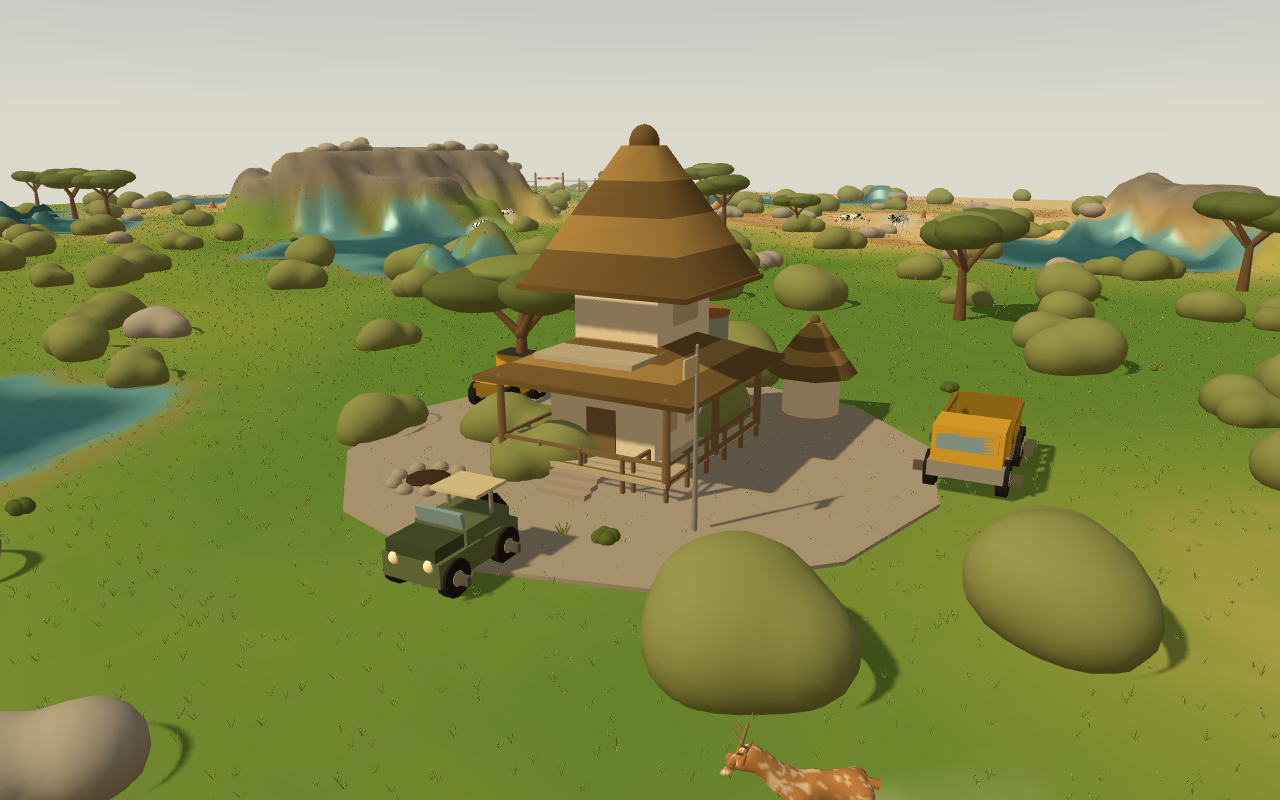
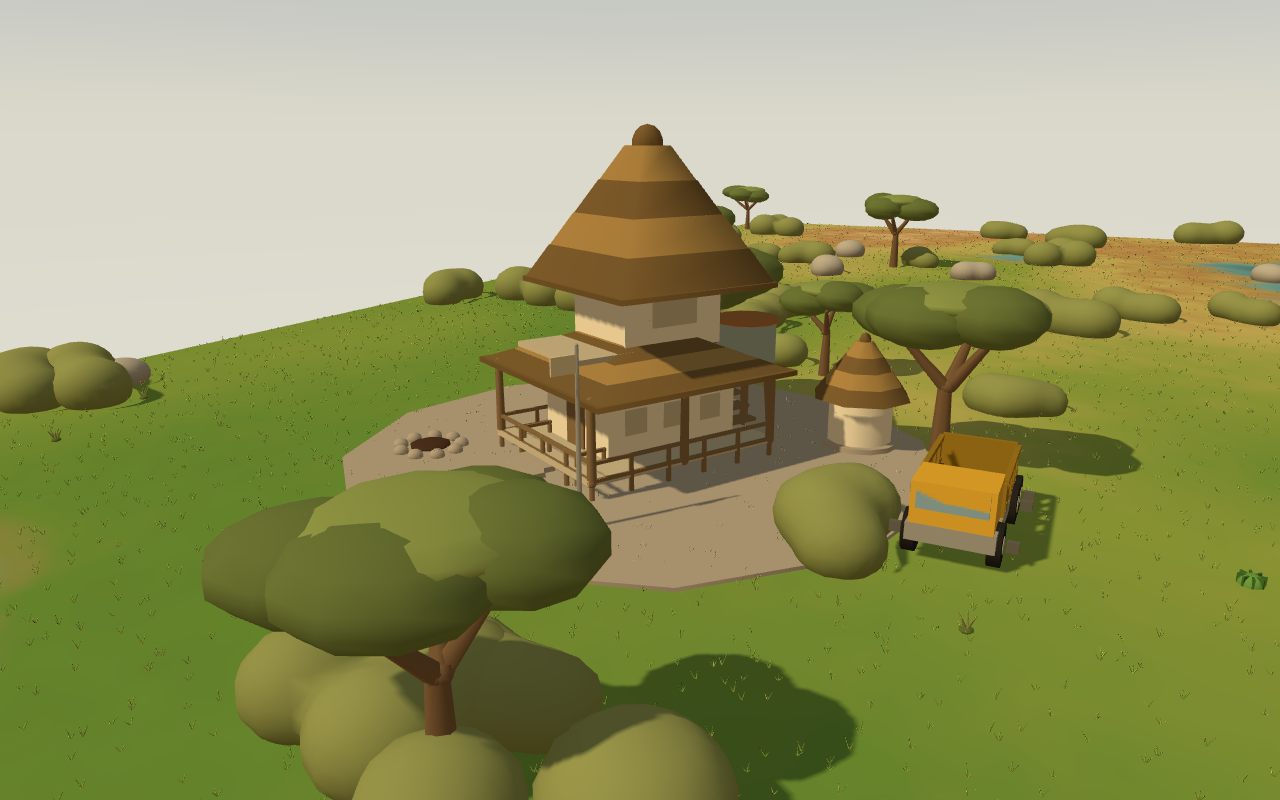
Give the lion a mane and the crocodile a back
The lion was a smooth orange ball. Its ruff was blended into the skull on
the default fillet, which only ever made the head bigger, so it now keeps
its own edge and carries a ring of overlapping lumps in the surface with
short tufts over the top. An earlier attempt used long radiating strands and
produced a sea urchin: what identifies a lion at distance is a broken
outline with volume behind it, not spikes.

The crocodile was a green torpedo. It has three rows of keeled scutes down
the back and a ridge along the tail now, placed by casting a ray onto the
skin rather than by arithmetic from the rig — measured positions end up
buried, because the blend inflates the surface above the primitives it was
measured from, which is how the first pass gave it an armoured tail and a
bare back.

The smoke test also stops the game's ticker before asserting anything. The
page's own frame loop was racing it: animals moved between the step that set
a pose and the line that read it, and a run that reached its tenure mid-test
made the shell ignore clicks, failing the input checks for a reason that had
nothing to do with input. Five consecutive clean runs, where it was failing
about one in three.

diff --git a/src/r3d/Creature3D.js b/src/r3d/Creature3D.js
@@ -245,9 +245,38 @@
             neck.thickBase * 0.5 * PX, neck.thickTip * 0.5 * PX);
 
         if (spec.ruff) {
-            field.ellipsoid(iHead,
-                headPos.x - spec.ruff.radius * 0.28 * PX, headPos.y, 0,
-                spec.ruff.radius * 0.85 * PX, spec.ruff.radius * PX, spec.ruff.radius * PX);
+            const ruff = spec.ruff;
+            const rcx = headPos.x - ruff.radius * 0.30 * PX;
+            // A tight blend, so the ruff sits against the head instead of merging with
+            // it. On the default fillet a lion came out as one smooth orange ball.
+            field.ellipsoid(iHead, rcx, headPos.y, 0,
+                ruff.radius * 0.80 * PX, ruff.radius * PX, ruff.radius * PX,
+                bulk * 0.06);
+
+            /*
+             * A ring of lumps around the collar.
+             *
+             * The first attempt at a mane was long strands radiating from the ruff,
+             * which read as a sea urchin rather than as hair. What a mane actually does
+             * to a silhouette is thicken and roughen it, so it is built as overlapping
+             * masses in the surface itself — volume first, with a few short tufts over
+             * the top to break the edge.
+             */
+            if (ruff.lumps) {
+                const inner = ruff.radius * ruff.inset * PX;
+                for (let i = 0; i < ruff.lumps; i++) {
+                    const a = (i / ruff.lumps) * TAU;
+                    const wobble = 1 + Math.sin(i * 2.3) * 0.22;
+                    field.ellipsoid(iHead,
+                        rcx - ruff.lump * 0.18 * PX * (i % 2),
+                        headPos.y + Math.sin(a) * inner,
+                        Math.cos(a) * inner,
+                        ruff.lump * 0.42 * PX * wobble,
+                        ruff.lump * 0.5 * PX * wobble,
+                        ruff.lump * 0.5 * PX * wobble,
+                        bulk * 0.045);
+                }
+            }
         }
 
         // Head and muzzle offsets, relative to the head bone — the appendages below
@@ -335,9 +364,11 @@
             if (ex * ex + ey * ey + ez * ez < 1.2) return _col.copy(muzzleCol);
 
             if (spec.ruff) {
-                const dr = Math.hypot(x - (headPos.x - spec.ruff.radius * 0.28 * PX),
+                // Wide enough to take in the lumps, or the mane is a dark collar with a
+                // pale fringe of its own edge.
+                const dr = Math.hypot(x - (headPos.x - spec.ruff.radius * 0.30 * PX),
                     y - headPos.y, z);
-                if (dr < spec.ruff.radius * 0.95 * PX) return _col.copy(maneCol);
+                if (dr < spec.ruff.radius * 1.16 * PX) return _col.copy(maneCol);
             }
 
             // A mane rides the crest of the neck: close to the neck line, and above it.
@@ -490,6 +521,33 @@
             b.pop();
         }
 
+        /* --- The mane ---------------------------------------------------------- *
+         *
+         * A collar of tapered strands around the ruff, raked back. Drawn rather than
+         * blended, because what identifies a lion at fifty metres is the broken
+         * outline, and a blended mass has no outline to break.
+         */
+        if (spec.ruff && spec.ruff.strands) {
+            const ruff = spec.ruff;
+            const cx = headPos.x - ruff.radius * 0.30 * PX;
+            const cy = headPos.y;
+            b.bone(iHead).color(maneCol);
+            const outer = ruff.radius * (ruff.inset || 0.8) * PX + ruff.lump * 0.3 * PX;
+            for (let i = 0; i < ruff.strands; i++) {
+                const a = (i / ruff.strands) * TAU + (i % 2) * 0.18;
+                const uy = Math.sin(a);
+                const uz = Math.cos(a);
+                const len = ruff.length * PX * (0.75 + (i % 3) * 0.18);
+                // Tufts sweep back along the body as well as outward, which is what
+                // stops a mane reading as a sunflower.
+                b.limb(
+                    cx, cy + uy * outer * 0.9, uz * outer * 0.9,
+                    cx - ruff.rake * len, cy + uy * (outer + len), uz * (outer + len),
+                    ruff.thick * 0.5 * PX, ruff.thick * 0.18 * PX,
+                    { radial: 4, noCaps: true });
+            }
+        }
+
         /* --- Ears and eyes ---------------------------------------------------- */
         if (spec.ear) {
             const ear = spec.ear;
@@ -559,6 +617,64 @@
                 .pop();
         }
         b.pop();
+
+        /* --- Scutes -------------------------------------------------------------- *
+         *
+         * Keeled plates along the spine and the tail. They belong to whichever bone
+         * carries the part they sit on, so the tail's row swings with the tail.
+         */
+        if (spec.scutes) {
+            const sc = spec.scutes;
+            const scuteCol = R3D.col(sc.color);
+
+            b.bone(iBody).color(scuteCol);
+            for (let row = 0; row < sc.rows; row++) {
+                // The middle row runs the length of the back; the flanking rows are
+                // shorter and set lower, as they are on the animal.
+                const lateral = (row - (sc.rows - 1) / 2) * sc.spread;
+                const flank = Math.abs(lateral) > 0.01;
+                const inset = flank ? 0.72 : 1;
+                const size = sc.size * (flank ? 0.72 : 1);
+                const from = body.length * 0.42 * inset;
+                const to = -body.length * 0.48 * inset;
+                const steps = Math.max(2, Math.round((from - to) / sc.spacing));
+                for (let i = 0; i <= steps; i++) {
+                    const t = i / steps;
+                    const x = from + (to - from) * t;
+                    /*
+                     * Sit each scute on the skin, not on the ellipsoid it was measured
+                     * from. The blend inflates the back above the barrel it started as,
+                     * so a row placed by arithmetic ends up inside the animal — which is
+                     * why the first pass gave the crocodile an armoured tail and a bare
+                     * back.
+                     */
+                    field.project(x * PX, body.z * PX, -lateral * PX,
+                        flank ? Math.sign(-lateral) * 0.55 : 0, 1, 0, hit,
+                        body.height * 3 * PX);
+                    b.push()
+                        .translate(hit[0], hit[1] - size * 0.22 * PX, hit[2])
+                        .rotate(0, 0, -0.18)
+                        .cone(size * 0.5 * PX, size * PX, LOW)
+                        .pop();
+                }
+            }
+
+            const tsc = sc.tail || sc;
+            const tailLen = Math.hypot(tEndX, tEndY);
+            const tailSteps = Math.max(2, Math.round(tailLen / (tsc.spacing * PX)));
+            b.bone(rig.index.tail);
+            b.push().translate(tailPos.x, tailPos.y, tailPos.z);
+            for (let i = 0; i <= tailSteps; i++) {
+                const t = i / tailSteps;
+                const taper = 1 - t * 0.72;
+                b.push()
+                    .translate(tEndX * t, tEndY * t + tail.thick * 0.34 * PX * taper, 0)
+                    .rotate(0, 0, -0.18)
+                    .cone(tsc.size * 0.45 * PX * taper, tsc.size * PX * taper, LOW)
+                    .pop();
+            }
+            b.pop();
+        }
 
         /* --- Legs ---------------------------------------------------------------- */
         for (let i = 0; i < 4; i++) {

diff --git a/src/config/IsoSpecies.js b/src/config/IsoSpecies.js
@@ -125,7 +125,7 @@
             id: 'lion', label: 'Lion', diet: 'carnivore',
             palette: {
                 base: '#c99257', limb: '#bf884e', hoof: '#7d5730',
-                muzzle: '#e4cda2', mane: '#7d4a20', eye: '#241408'
+                muzzle: '#e4cda2', mane: '#6b3a15', eye: '#241408'
             },
             body: { x: 0, z: 20, length: 25, width: 9, height: 11 },
             neck: { x: 17, z: 24, length: 8, angle: 0.34, thickBase: 13, thickTip: 11 },
@@ -134,8 +134,21 @@
                 length: 8.5, width: 6.5, height: 6.5,
                 muzzle: { offset: 5.5, length: 4.4, width: 3.8, height: 3.4 }
             },
-            /** The ruff is what makes a lion read as a lion at any distance. */
-            ruff: { radius: 11 },
+            /**
+             * The ruff is what makes a lion read as a lion at any distance.
+             *
+             * `strands` is what makes it read as a *mane* rather than as a larger head.
+             * Blended into the skull it only ever produced a bigger ball; the ragged
+             * outline is the whole signal, so it is drawn as a collar of tapered
+             * strands around a ruff that keeps its own edge.
+             */
+            ruff: {
+                radius: 10,
+                /** Overlapping lumps around the collar, which give it a shaggy edge. */
+                lumps: 13, lump: 4.2, inset: 0.80,
+                /** Short tufts over the lumps, to break the outline without spiking it. */
+                strands: 18, length: 2.8, thick: 2.8, rake: 0.35
+            },
             ear: { offset: -1, rise: 3.4, spread: 3, length: 3, thick: 3 },
             eye: { offset: 3.4, rise: 1.4, spread: 3, radius: 1.1 },
             legs: {
@@ -219,6 +232,20 @@
                 sprawl: 4.5
             },
             tail: { rise: 1, angle: 0.02, length: 26, thick: 7, tip: 0.8, droop: 0.25, tuft: 0 },
+            /**
+             * Osteoderms.
+             *
+             * A crocodile's back is armour, and without it the animal is a smooth green
+             * torpedo — which is exactly what a blended surface makes of it. Three rows
+             * of keeled scutes down the body and a single ridge along the tail put the
+             * texture back into the silhouette, which is where it matters: a croc is
+             * usually seen as a shape lying half in the water.
+             */
+            scutes: {
+                color: '#3f4a2a',
+                rows: 3, spacing: 3.2, size: 2.8, spread: 3.2,
+                tail: { rows: 1, spacing: 2.4, size: 2.6 }
+            },
             gait: { type: 'sprawl', stride: 7, lift: 2, bodyBob: 0.6,
                 phases: [0, 0.5, 0.5, 0] }
         }),

diff --git a/src/boot.js b/src/boot.js
@@ -128,13 +128,20 @@
                 return this;
             },
 
-            /** Park the camera: focus tile, distance, yaw and pitch in radians. */
+            /**
+             * Park the camera: focus tile, distance, yaw and pitch in radians.
+             *
+             * Settled rather than placed. The rig damps its focus height toward the
+             * ground so that panning onto a plateau lifts the view smoothly, which
+             * means a single update leaves the camera most of the way back at wherever
+             * it was — and a shot framed on the old height misses the subject.
+             */
             cam(tx, ty, dist, yaw, pitch) {
                 const c = scene().camera;
                 c.snapToTile(tx, ty, dist);
                 if (yaw !== undefined) c.yaw = c.targetYaw = yaw;
                 if (pitch !== undefined) c.pitch = c.targetPitch = pitch;
-                c.update(0.016, scene().world);
+                for (let i = 0; i < 40; i++) c.update(0.05, scene().world);
                 return this;
             },
 

diff --git a/CLAUDE.md b/CLAUDE.md
@@ -86,6 +86,19 @@ stack, and quad winding is derived from the gradient normals rather than from th
 of the crossing, because getting it wrong per axis silently culls half the faces and the
 animal comes out full of holes.
 
+**Anything that sits on the skin gets projected onto it.** `Field.project` casts a ray
+from a point known to be *inside* the animal until it meets the surface; eyes, ears and
+the crocodile's scutes are all placed that way. Positions worked out by arithmetic from
+the rig end up buried, because the blend inflates the surface above the primitives it
+was measured from — that is exactly how the crocodile came to have an armoured tail and
+a bare back. Start the ray anywhere that might be outside and it finds no crossing at
+all, and the feature hangs in the air beside the animal.
+
+**A silhouette is made of masses, not spikes.** The lion's mane is a ring of overlapping
+lumps *in the field* with short tufts over them. Built as long radiating strands it read
+as a sea urchin; built as a smooth ruff it read as a bigger head. Both are worth
+remembering when adding a feature whose whole job is to be recognised at distance.
+
 **Faces need a jaw.** Barrel-neck-head-muzzle in a single blend is a monotonic taper
 and every species comes out with the same snout. `Creature3D` adds a jaw ellipsoid on a
 tight blend, paints nostrils and a mouth line onto the skin, and places eyes and ears by
@@ -130,7 +143,12 @@ node C:/Claude/Tools/shot/shot.mjs ./index.html --viewport 1280x800 --wait 3500 
 ```
 
 `scripts/smoke.mjs` is the one that matters after touching input: the fork rewrote every
-path between the pointer and the simulation, and none of it shows up in a screenshot.
+path between the pointer and the simulation, and none of it shows up in a screenshot. It
+stops the game's ticker before asserting anything — the page's own frame loop used to
+race it, and a run that reached its tenure mid-test made the shell ignore clicks, which
+failed the input checks for a reason that had nothing to do with input. Any new check
+should advance the world with `S.step()` and assert on what it asked for, not on a
+snapshot of an animal that may have moved on.
 
 ## What is still 2D on purpose
 

diff --git a/README.md b/README.md
@@ -45,6 +45,12 @@ was replaced is everything below the line marked `3D PRESENTATION LAYER` in
   shape to grass — a few rich points instead of an even field — so browsers gather,
   strip a stand and move on, and the giraffes are reliably somewhere worth watching.
 
+- **Species read as themselves.** A lion's mane is a ring of overlapping masses in the
+  surface with tufts over them, because what identifies a lion at fifty metres is a
+  broken outline; a crocodile's back and tail carry rows of keeled scutes, projected onto
+  the skin rather than positioned by arithmetic, because a blended croc without them is a
+  green torpedo.
+
 - **Faces are built, not implied.** A jaw under the muzzle gives a mouth crease rather
   than a snout; nostrils and a mouth line are painted onto the finished skin; and eyes
   and ears are placed by casting a ray from the middle of the skull until it meets the
